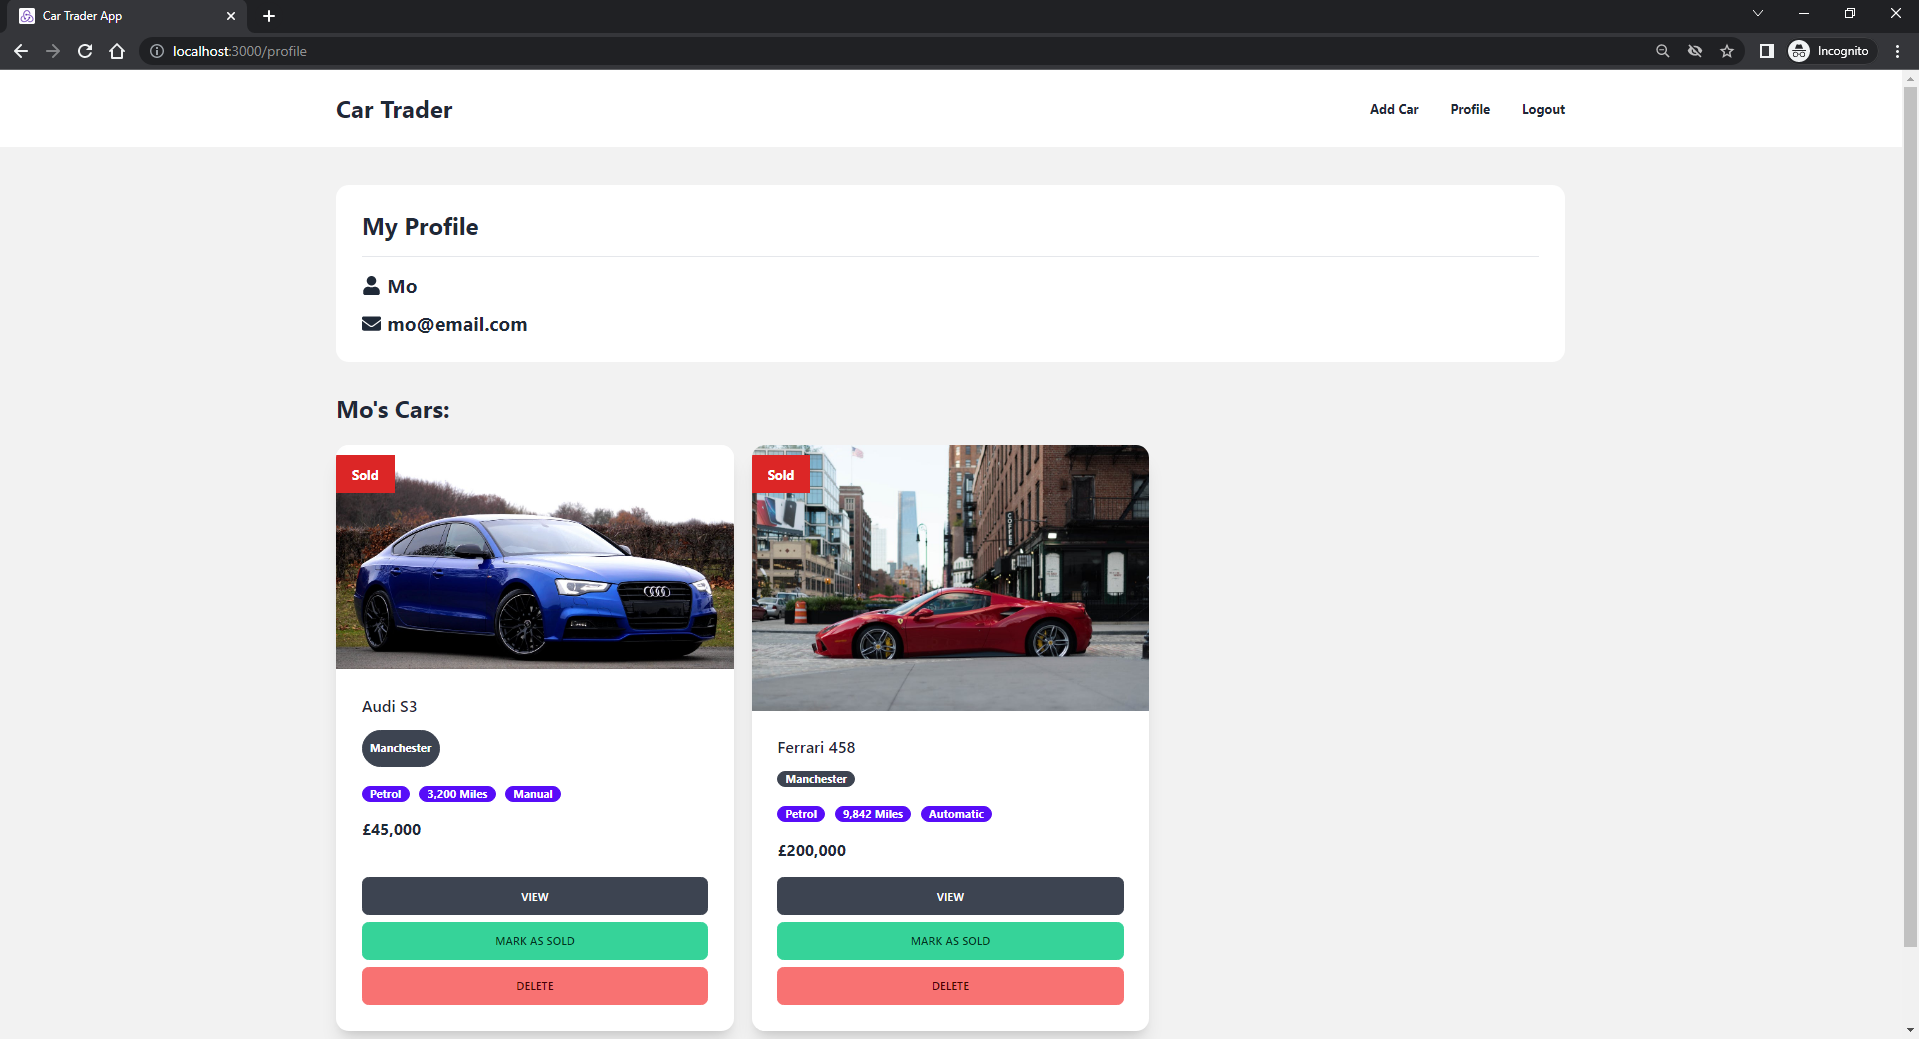
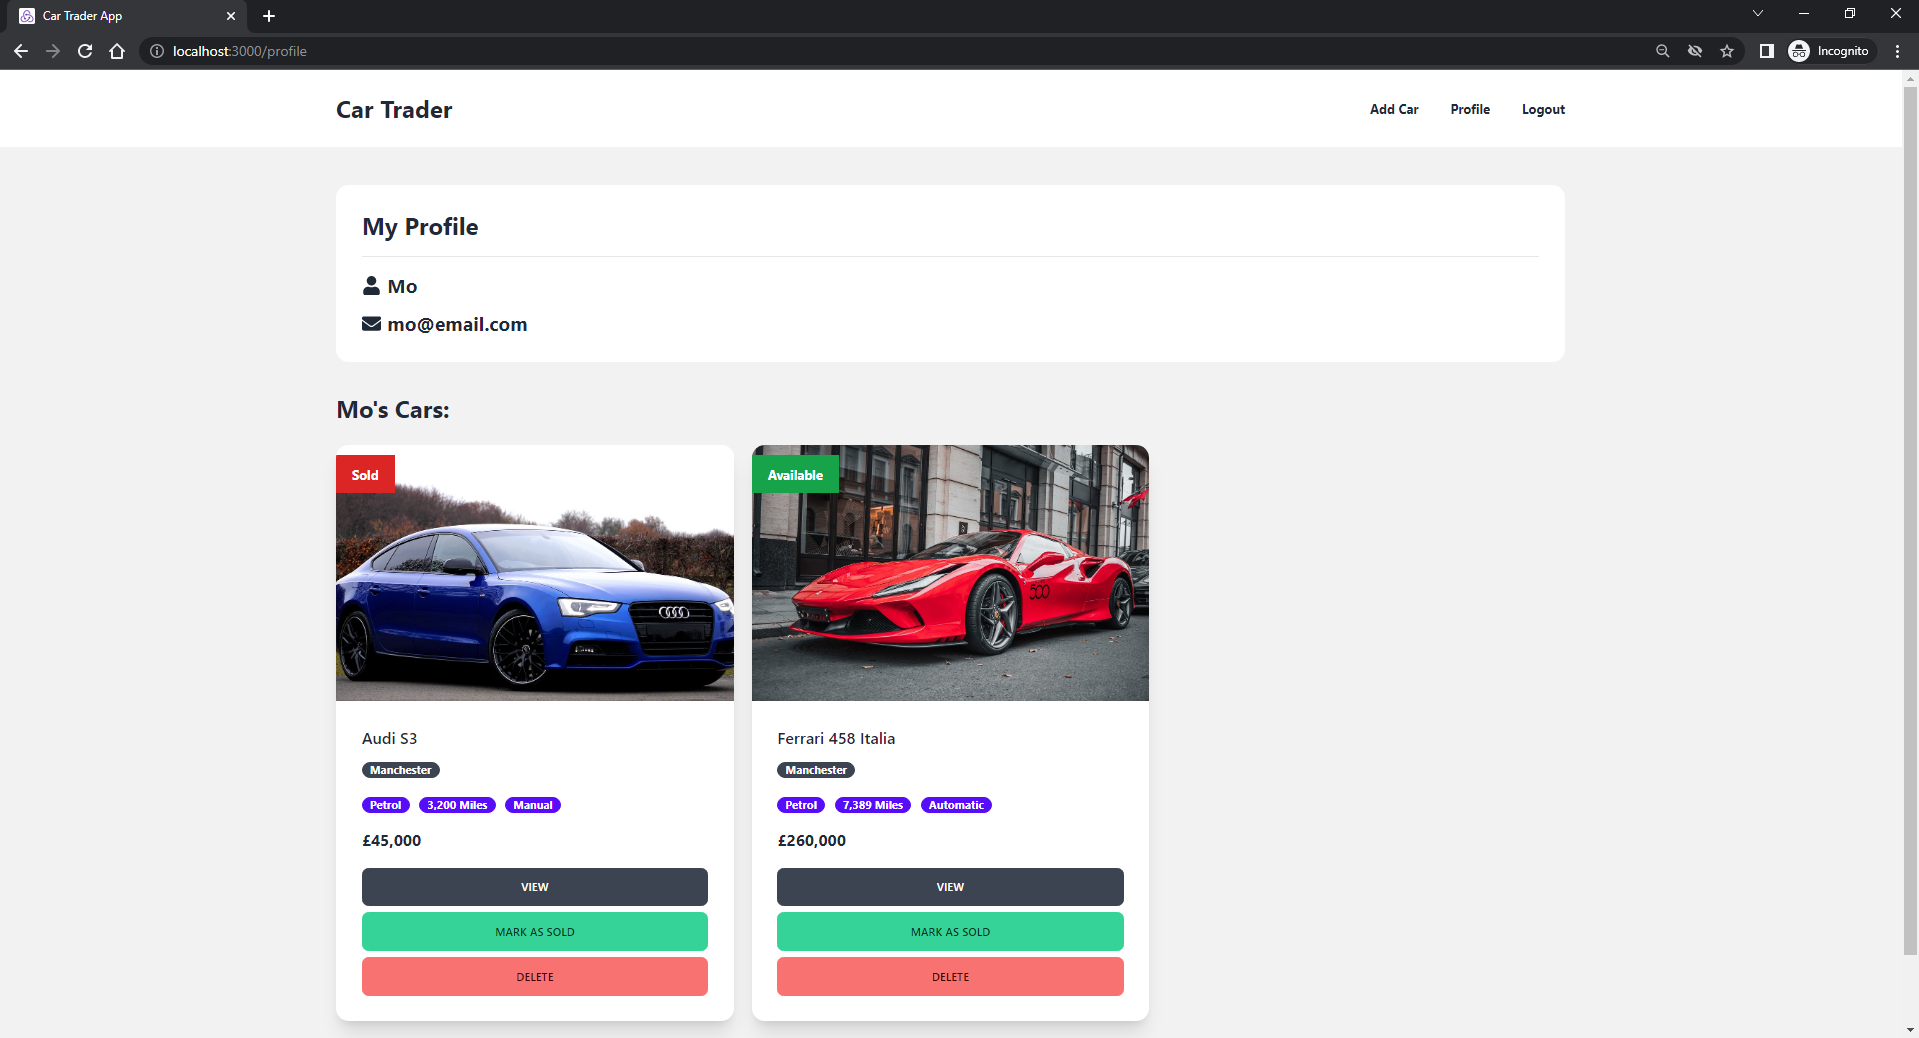
update

Changed region(s): [[0.1537, 0.4008, 0.6149, 1.0], [0.9838, 0.894, 1.0, 0.9249], [0.2152, 0.3083, 0.246, 0.3391]]

diff --git a/frontend/src/pages/CarListing.jsx b/frontend/src/pages/CarListing.jsx
@@ -549,7 +549,7 @@ function CarListing() {
                         <div className="card shadow-xl my-5 relative">
                           <figure>
                             {" "}
-                            <img src={car.imageURL} alt={car.model} className="w-full" />
+                            <img src={car.imageURL} alt={car.model} className="w-full h-60 object-cover" />
                           </figure>
                           <div className="card-body">
                             <h2 className="card-title">

diff --git a/frontend/src/pages/UserProfile.jsx b/frontend/src/pages/UserProfile.jsx
@@ -48,7 +48,7 @@ function UserProfile() {
                 <div className="card bg-base-100 shadow-xl my-5 relative" key={car._id}>
                   <figure>
                     {" "}
-                    <img src={car.imageURL} alt={car.model} className="w-full" />
+                    <img src={car.imageURL} alt={car.model} className="w-full h-80 object-cover" />
                   </figure>
                   <div className="card-body">
                     <h2 className="card-title">
